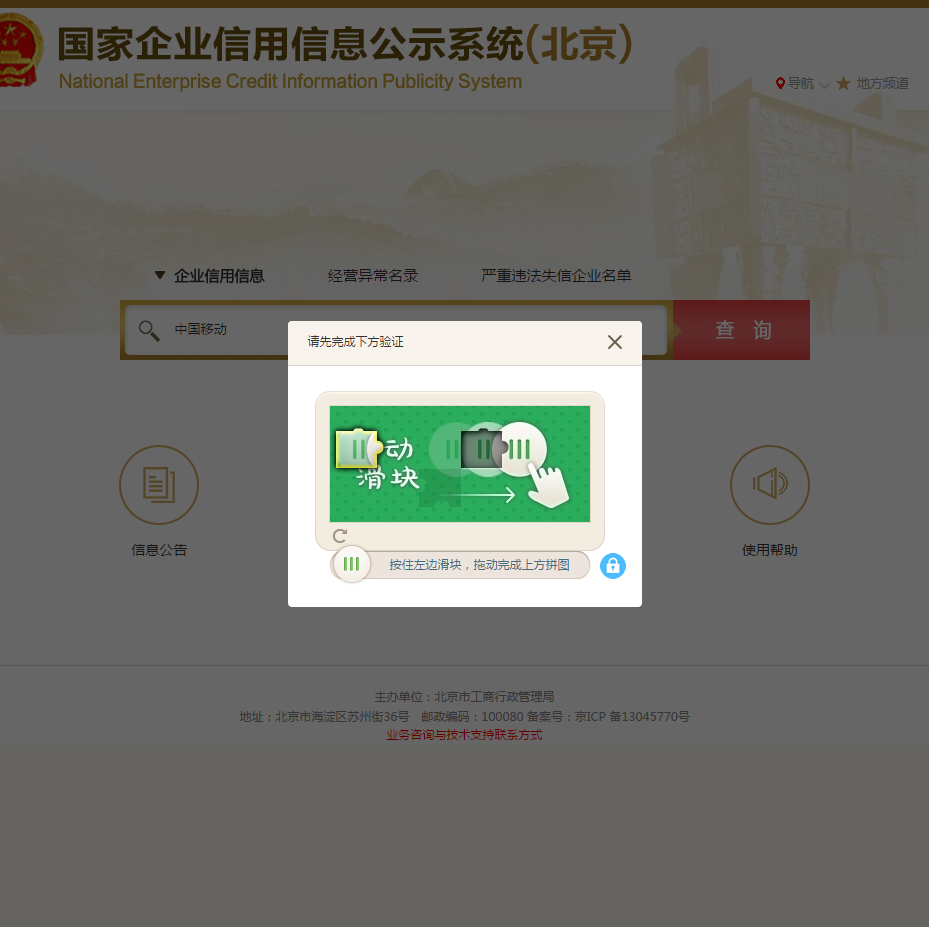
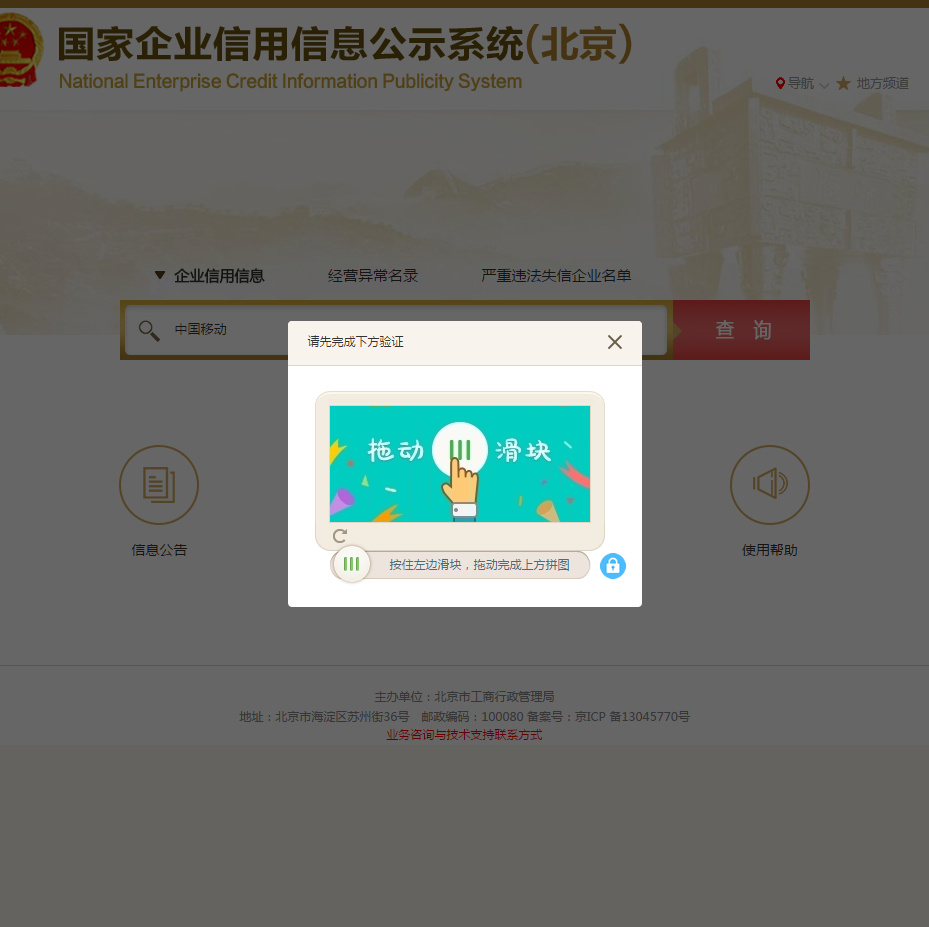
解决滑块距离计算问题

Changed region(s): [[0.3434, 0.4229, 0.6555, 0.5739]]

diff --git a/geetest/geetest.py b/geetest/geetest.py
@@ -3,7 +3,7 @@
 import time
 import uuid
 import StringIO
-
+import random
 from PIL import Image
 from selenium.webdriver.common.action_chains import ActionChains
 
@@ -40,9 +40,7 @@ class BaseGeetestCrack(object):
 
     def calculate_slider_offset(self):
         """计算滑块偏移位置，必须在点击查询按钮之后调用
-
         :returns: Number
-
         """
         img1 = self.crop_captcha_image()
         self.drag_and_drop(x_offset=5)
@@ -53,25 +51,31 @@ class BaseGeetestCrack(object):
             return False
         left = 0
         flag = False
-        for i in xrange(45, w1):
+        move_size = 0
+        for i in xrange(60, w1):
             for j in xrange(h1):
-                if not self.is_pixel_equal(img1, img2, i, j):
-                    left = i
+                if self.is_not_equal_pixel(img1, img2, i, j):
+                    left = j
                     flag = True
                     break
             if flag:
                 break
         if left == 45:
             left -= 2
-        return left
+        for k in xrange(60, w1):
+            if self.is_not_equal_pixel(img1, img2, k, left):
+                move_size = k
+                break
+        return move_size - 6
 
-    def is_pixel_equal(self, img1, img2, x, y):
+    def  is_not_equal_pixel(self, img1, img2, x, y):
         pix1 = img1.load()[x, y]
         pix2 = img2.load()[x, y]
-        if (abs(pix1[0] - pix2[0] < 60) and abs(pix1[1] - pix2[1] < 60) and abs(pix1[2] - pix2[2] < 60)):
-            return True
-        else:
-            return False
+        for i in range(0, 3):
+            # 如果相差超过50则就认为找到了缺口的位置
+            if abs(pix1[i] - pix2[i]) >= 60:
+                return True
+        return False
 
     def crop_captcha_image(self, element_id="gt_box"):
         """截取验证码图片
@@ -121,7 +125,15 @@ class BaseGeetestCrack(object):
         action = ActionChains(self.driver)
         action.drag_and_drop_by_offset(dragger, x_offset, y_offset).perform()
         # 这个延时必须有，在滑动后等待回复原状
-        time.sleep(8)
+        time.sleep(4)
+
+
+    def drag_to_index(self, track, element_class="gt_slider_knob"):
+        dragger = self.driver.find_element_by_class_name(element_class)
+        ActionChains(self.driver).move_to_element_with_offset(to_element=dragger, xoffset=track + 22, yoffset=0).perform()
+        # 这个延时必须有，在滑动后等待回复原状
+        time.sleep(random.randint(10, 50) / 100)
+
 
     def move_to_element(self, element_class="gt_slider_knob"):
         """鼠标移动到网页元素上

diff --git a/industry_and_commerce.py b/industry_and_commerce.py
@@ -2,7 +2,7 @@
 # -*- coding: utf-8 -*-
 
 import time
-
+import random
 from geetest import BaseGeetestCrack
 from selenium import webdriver
 
@@ -19,9 +19,29 @@ class IndustryAndCommerceGeetestCrack(BaseGeetestCrack):
         self.input_by_id()
         self.click_by_id()
         # time.sleep(3.5)
-        x_offset = self.calculate_slider_offset() + 5
+        x_offset = self.calculate_slider_offset()
         print x_offset
-        self.drag_and_drop(x_offset=x_offset)
+        track_list = get_track(x_offset)
+        # for track in track_list:
+        self.drag_to_index(x_offset)
+        # self.drag_and_drop(x_offset=x_offset)
+
+
+# 根据缺口的位置模拟x轴移动的轨迹
+def get_track(length):
+    pass
+    list = []
+    # 间隔通过随机范围函数来获得,每次移动一步或者两步
+    x = random.randint(1, 3)
+    # 生成轨迹并保存到list内
+    while length - x >= 5:
+        list.append(x)
+        length = length - x
+        x = random.randint(1, 3)
+    # 最后五步都是一步步移动
+    for i in range(length):
+        list.append(1)
+    return list
 
 
 def main():
@@ -29,9 +49,9 @@ def main():
     driver.get("http://bj.gsxt.gov.cn/sydq/loginSydqAction!sydq.dhtml")
     cracker = IndustryAndCommerceGeetestCrack(driver)
     cracker.crack()
-    print(driver.get_window_size())
-    time.sleep(3.5)
-    driver.save_screenshot("screen.png")
+    # print(driver.get_window_size())
+    time.sleep(1)
+    # driver.save_screenshot("screen.png")
     driver.close()
 
 
